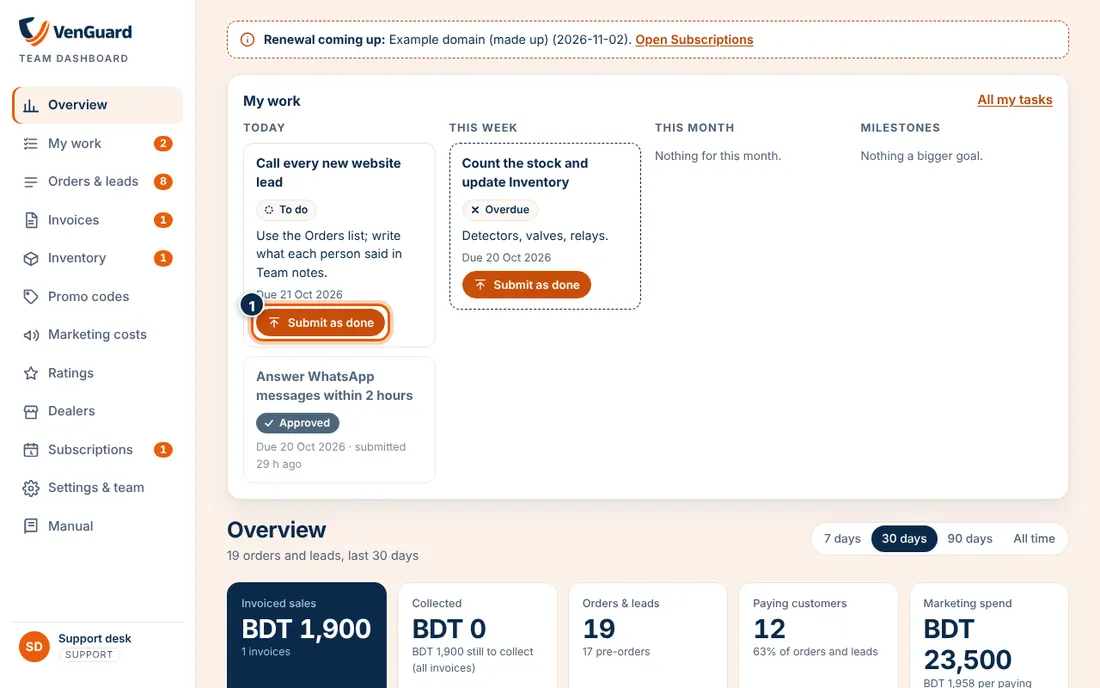
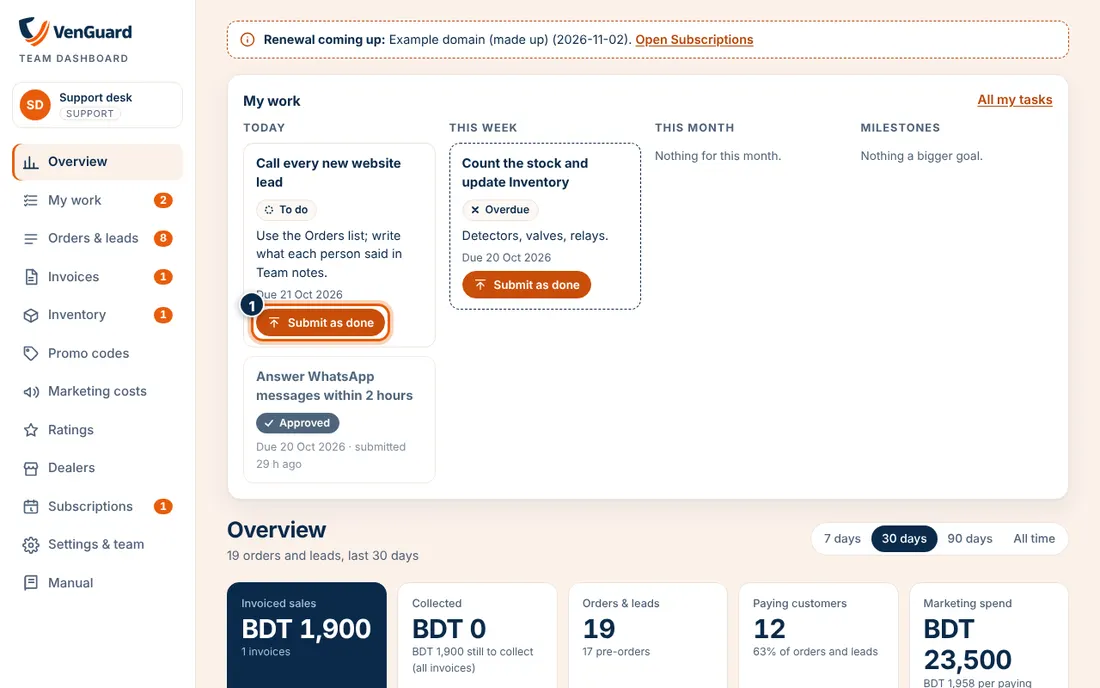
Team dashboard: profile button at the top of the menu
On shorter screens the profile button at the bottom of the menu fell
below the window. It now sits under the logo, and the menu scrolls if a
screen is too short for all sections. Phones keep the round badge at the
end of the top bar. Manual text and all 28 pictures updated.

Claude-Session: https://claude.ai/code/session_013BGdqmLLL6kjXTJA25d3RY

Changed region(s): [[0.0, 0.1221, 0.1545, 0.8547], [0.0, 0.9157, 0.1236, 0.9767], [0.1236, 0.1831, 0.1545, 0.2137]]

diff --git a/team-dashboard/css/dashboard.css b/team-dashboard/css/dashboard.css
@@ -51,7 +51,7 @@ button, input, select, textarea { font: inherit; color: inherit; }
 .mono { font-family: var(--mono); font-size: .9em; font-variant-numeric: tabular-nums; letter-spacing: .01em; }
 
 .app { display: grid; grid-template-columns: 228px minmax(0, 1fr); min-height: 100%; }
-.rail { background: var(--rail); color: var(--rail-ink); border-right: 1px solid var(--rail-line); padding: 20px 14px; display: flex; flex-direction: column; gap: 24px; position: sticky; top: env(safe-area-inset-top, 0px); height: 100vh; }
+.rail { background: var(--rail); color: var(--rail-ink); border-right: 1px solid var(--rail-line); padding: 20px 14px; display: flex; flex-direction: column; gap: 18px; position: sticky; top: env(safe-area-inset-top, 0px); height: 100vh; overflow-y: auto; }
 .brand { display: grid; gap: 6px; padding: 0 8px; }
 .brand-logo { height: 34px; width: auto; max-width: 100%; }
 .brand-symbol { width: 32px; height: 32px; }
@@ -76,8 +76,8 @@ button, input, select, textarea { font: inherit; color: inherit; }
 .signin { max-width: 460px; margin: 8vh auto 0; text-align: left; }
 .signin h1 { margin-bottom: 6px; }
 .signin .btn { margin-top: 14px; }
-/* Profile button at the bottom of the menu: initials, name and role; opens the Profile page */
-.me-btn { all: unset; box-sizing: border-box; cursor: pointer; margin-top: auto; display: flex; align-items: center; gap: 10px; width: 100%; padding: 10px 8px; border-top: 1px solid var(--rail-line); border-radius: 0 0 10px 10px; color: var(--rail-ink); }
+/* Profile button at the top of the menu, under the logo: initials, name and role; opens the Profile page */
+.me-btn { all: unset; box-sizing: border-box; cursor: pointer; display: flex; align-items: center; gap: 10px; width: 100%; padding: 8px; border: 1px solid var(--rail-line); border-radius: 12px; color: var(--rail-ink); }
 .me-btn:hover, .me-btn[aria-current="page"] { background: var(--rail-active); color: var(--rail-strong); }
 .me-btn:focus-visible { outline: 2px solid var(--orange); }
 .me-text { display: grid; min-width: 0; font-size: .82rem; line-height: 1.3; }
@@ -199,7 +199,7 @@ label.fl textarea { min-height: 90px; resize: vertical; }
   .app { grid-template-columns: 1fr; grid-template-rows: auto 1fr; }   /* short pages: the top bar keeps its height */
   .rail { position: sticky; top: env(safe-area-inset-top, 0px); height: auto; flex-direction: row; align-items: center; padding: 10px 12px; gap: 8px; z-index: 10; overflow-x: auto; }
   .brand small, .me-text { display: none; }
-  .me-btn { margin: 0 0 0 4px; width: auto; flex: none; padding: 2px; border-top: 0; border-radius: 50%; order: 10; }
+  .me-btn { margin: 0 0 0 4px; width: auto; flex: none; padding: 2px; border: 0; border-radius: 50%; order: 10; }
   .me-btn .avatar { width: 34px; height: 34px; font-size: .8rem; }
   .brand { padding: 0; flex: none; }
   .brand .brand-logo.day, .brand .brand-logo.night { display: none !important; }   /* phones: symbol only */

diff --git a/team-dashboard/js/views/manual.js b/team-dashboard/js/views/manual.js
@@ -15,7 +15,7 @@ const SECTIONS = [
     steps: [
       "Open the dashboard link and press <b>Sign in with Google</b> (picture 1, 1). Choose the Google account the company account added to the team; other accounts are refused.",
       "The sections you can use are on the left (picture 2, 1). A number next to a section means something needs you: new orders, low stock, a renewal.",
-      "Your name and role are at the bottom left (2; top right on a phone). Press it for your <b>Profile</b> (picture 3): correct your name (1), choose Day, Night or Automatic (2), see what your role may do and your work this month, and <b>Sign out</b> (3). Sign out on shared computers: it also deletes the copy of the data kept in this browser.",
+      "Your name and role are at the top left, under the logo (2; the round badge at the top right on a phone). Press it for your <b>Profile</b> (picture 3): correct your name (1), choose Day, Night or Automatic (2), see what your role may do and your work this month, and <b>Sign out</b> (3). Sign out on shared computers: it also deletes the copy of the data kept in this browser.",
       "Your role decides what you can change; everything else you can only look at.",
     ],
     pics: [[M + "01-signin.webp", "Team sign-in page"], [M + "02-overview.webp", "Overview with the menu and your profile button marked"], [M + "28-profile.webp", "Your profile"]] },

diff --git a/team-dashboard/index.html b/team-dashboard/index.html
@@ -31,9 +31,10 @@
       <img class="brand-symbol night" src="../VENGuard/assets/img/logo/VenGuard_Symbol_Reversed_RGB.svg" alt="VenGuard" width="32" height="32">
       <small>Team dashboard</small>
     </div>
-    <nav class="nav" id="nav" aria-label="Sections"></nav>
-    <!-- Signed in: one profile button (name, role); theme and Sign out are on the Profile page (js/views/profile.js). -->
+    <!-- Signed in: the profile button (name, role) at the top, under the logo; theme and Sign out are on the
+         Profile page (js/views/profile.js). On phones it is the round badge at the end of the top bar. -->
     <button class="me-btn" type="button" id="me" data-act="nav" data-view="profile" hidden></button>
+    <nav class="nav" id="nav" aria-label="Sections"></nav>
   </aside>
   <main id="main"><p class="sub">Loading&#x2026;</p></main>
 </div>

diff --git a/team-dashboard/js/views/profile.js b/team-dashboard/js/views/profile.js
@@ -1,6 +1,6 @@
 /* Profile: who you are on the dashboard (name, email, role, access end date), what your role may do,
-   your work this month, the theme, and Sign out. Opened from the profile button at the bottom of the
-   menu (top right on phones). The company account can also open anyone's profile from Tasks → People. */
+   your work this month, the theme, and Sign out. Opened from the profile button at the top of the
+   menu, under the logo (top right on phones). The company account can also open anyone's profile from Tasks → People. */
 
 import { esc, fmtN, ago, toast, drawer, on, busy, field, ICON } from "../ui.js";
 import { S, ROLES, ROLE_INFO, saveMyName } from "../store.js";

diff --git a/team-dashboard/README.md b/team-dashboard/README.md
@@ -69,7 +69,7 @@ have an end date (`until`, `until_ms` on their team row); the rules check it on 
     5 per task and 700 KB each (photos are shrunk in the browser). Firebase Storage would need the paid plan.
     The free plan stores 1 GB in all: about 1,400 files at the limit, many more at normal sizes. Bigger files:
     the person shares a link (Google Drive). Deleting a task deletes its files.
-- **Profile** (`js/views/profile.js`): the button at the bottom of the menu (top right on phones) opens it: name
+- **Profile** (`js/views/profile.js`): the button at the top of the menu, under the logo (top right on phones), opens it: name
   (each person may correct only their own name; the rules allow nothing else on their team row), email, role
   and what it may do, end date, work this month, Day / Night / Automatic theme (saved per browser), the
   online-status note, and Sign out. The company account opens anyone's profile from Tasks → People.
